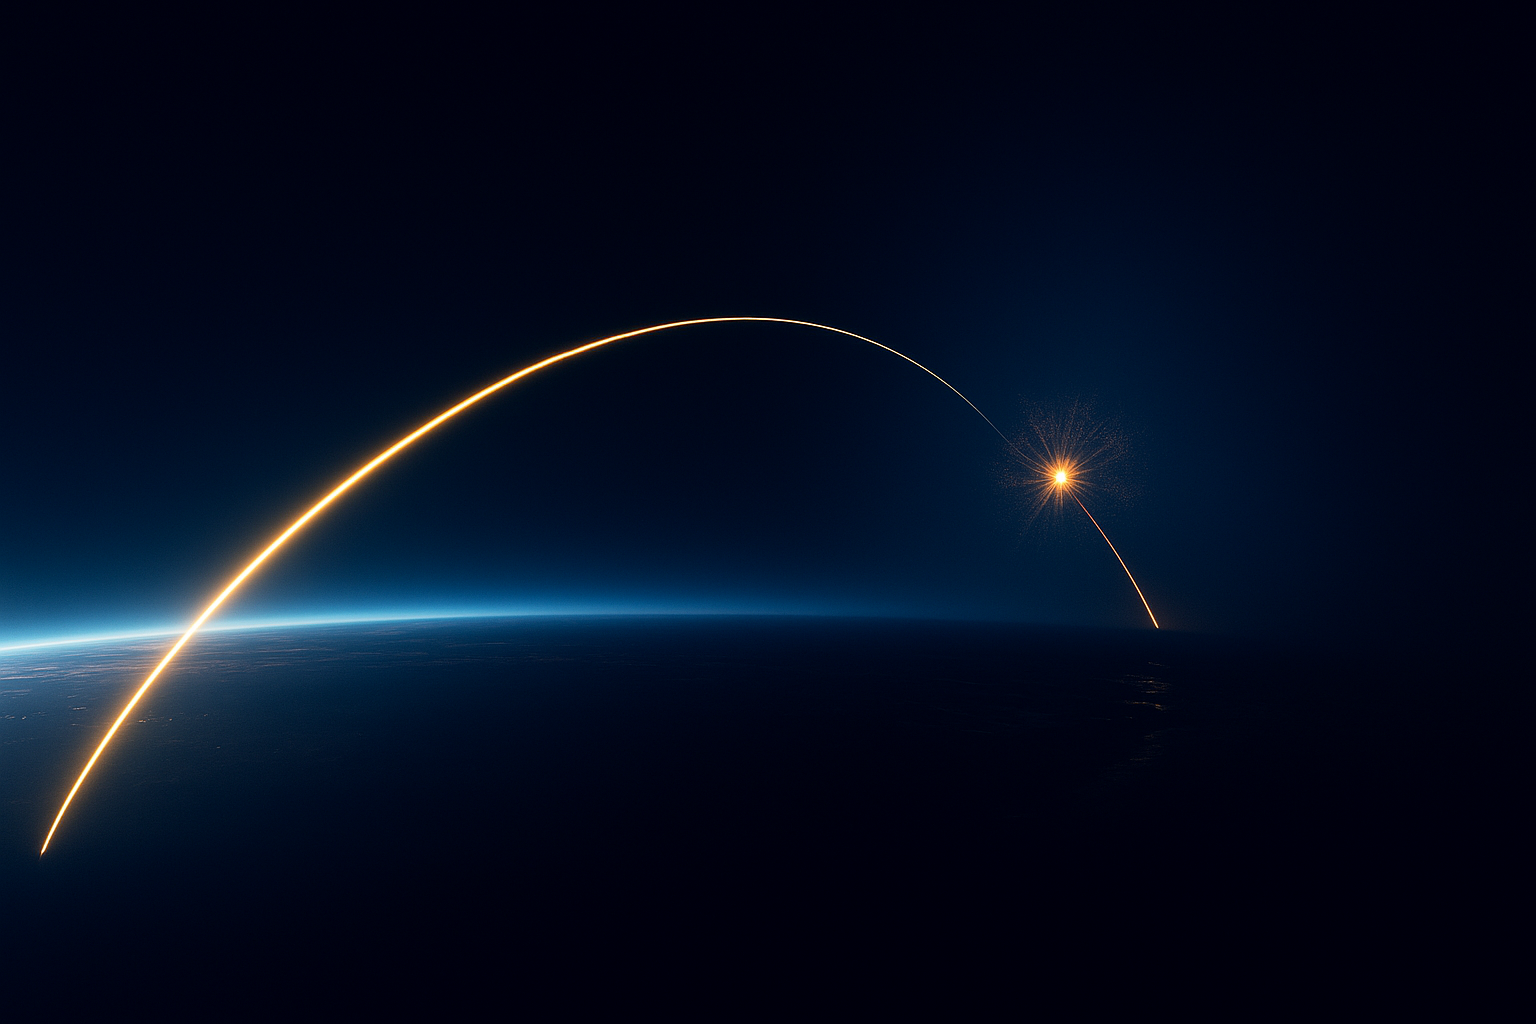
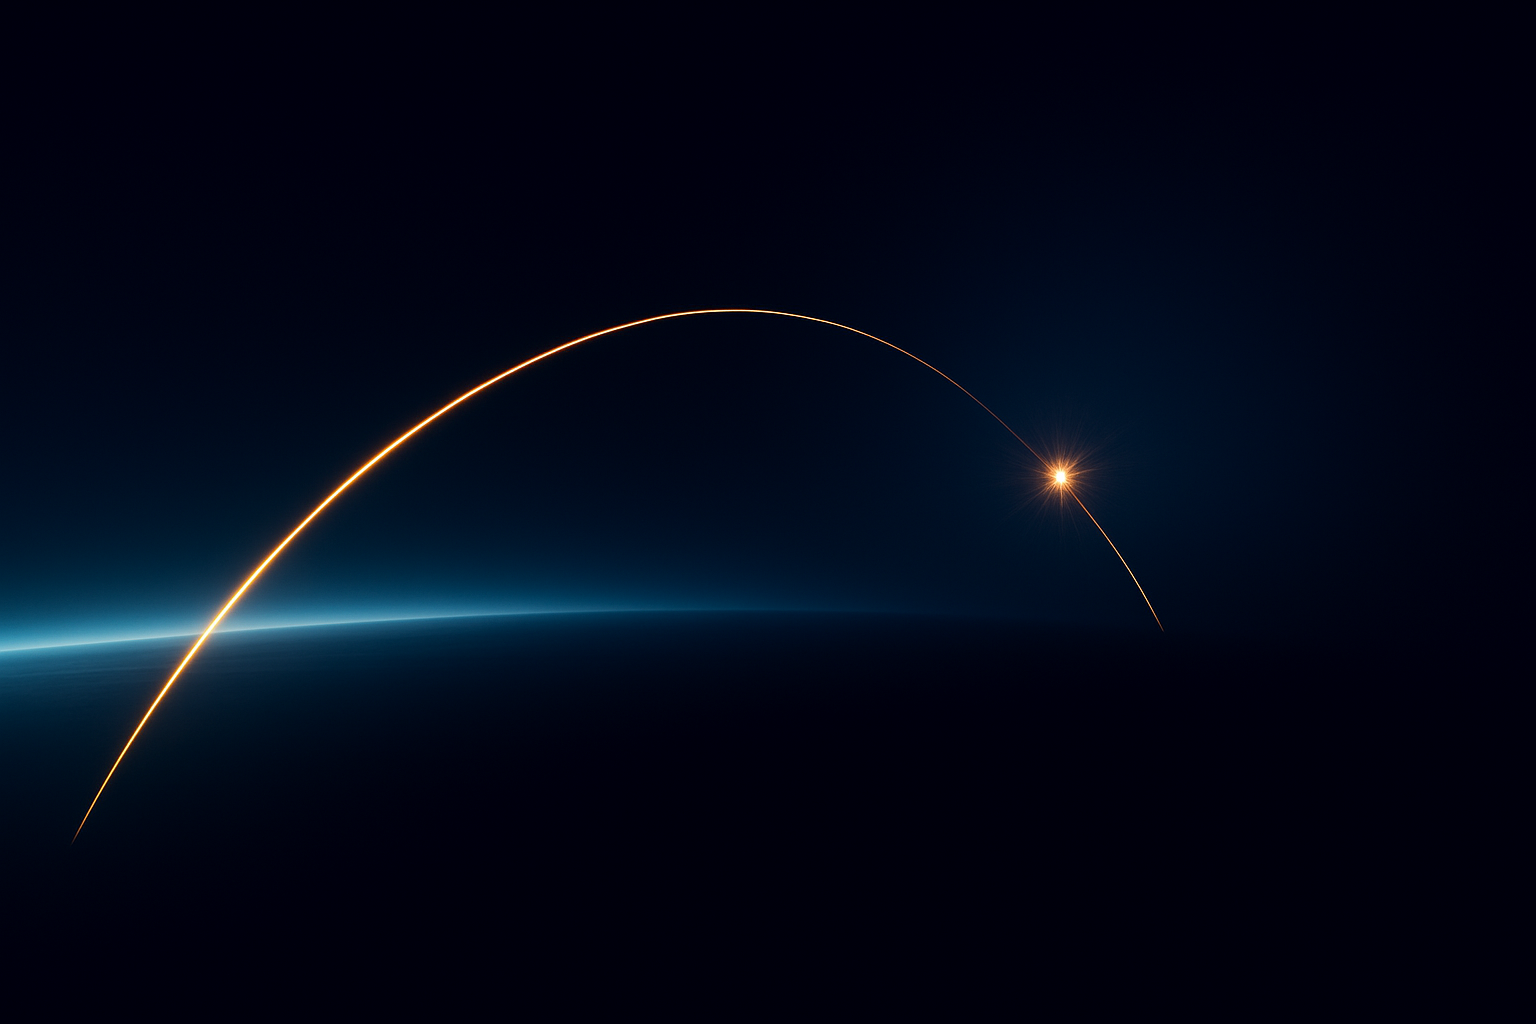
add some grident to the bg

diff --git a/components/component/hiringCard.tsx b/components/component/hiringCard.tsx
@@ -1,6 +1,6 @@
 export default function HiringCard(){
     return(
-        <div className="w-11/12 max-w-[1250px] flex flex-col justify-center items-center gap-2 md:gap-6 py-6 md:py-16 bg-[linear-gradient(135deg,#3883BC_0%,#001B2F_100%)] rounded-2xl mt-32 mb-16">
+        <div className="w-11/12 max-w-[1250px] flex flex-col justify-center items-center gap-2 md:gap-6 py-6 md:py-16 bg-[linear-gradient(135deg,#3883BC_0%,#001B2F_100%)] rounded-2xl mt-16 mb-16 hover:scale-99">
             <div className="text-black text-sm md:text-lg font-medium">Interested in Working on the Future of <div>Space Defense and National Security!</div></div>
             <div className="rubik text-xl md:text-3xl font-semibold">We’re Hiring!</div>
             <a href="/career#open-role" className="bg-black px-6 py-2 rounded-full mt-6 text-sm md:text-base">See open roles</a>

diff --git a/components/component/homeLanding.tsx b/components/component/homeLanding.tsx
@@ -13,5 +13,7 @@ export default function HomeLanding(){
             </div>
         </div>
         <div className="w-10/12 md:w-[700px] absolute bottom-32 text-center md:text-sm text-xs pt-16">Wardstone is a space defense-tech company developing next-generation capabilities to protect the United States and its allies from missiles and other space-based threats. We design, build, and deploy satellites equipped with space-based interceptors to kinetically counter hypersonic and ballistic missiles.</div>
+        <div className={`absolute bg-sky-400 blur-3xl opacity-20 h-[300px] w-[300px] md:block hidden rounded-full z-10 -left-[150px] -bottom-[150px]`}></div>
+        <div className={`absolute bg-sky-400 blur-3xl opacity-20 h-[300px] w-[300px] md:block hidden rounded-full z-10 -right-[150px] -bottom-[150px]`}></div>
     </div>)
 }

diff --git a/app/page.tsx b/app/page.tsx
@@ -5,11 +5,12 @@ import HomeLanding from "@/components/component/homeLanding";
 import Navbar from "@/components/component/navbar";
 
 export default function Home(){
-    return(<div className="flex flex-col items-center justify-start min-h-screen min-w-full">
+    return(<div className="relative overflow-hidden flex flex-col items-center justify-start min-h-screen min-w-full">
         <Navbar />
         <HomeLanding />
         <CompanyOverview />
         <HiringCard />
         <Footer />
+        <div className={`absolute bg-blue-400 blur-3xl opacity-30 md:h-[400px] md:w-[400px] h-[200px] w-[200px] rounded-full -z-10 md:-left-[200px] md:-bottom-[100px] -left-[100px] -bottom-[50px]`}></div>
     </div>)
 }

diff --git a/app/team/page.tsx b/app/team/page.tsx
@@ -5,11 +5,12 @@ import ContactUs from "@/components/component/contactUs"
 import TeamLanding from "@/components/component/teamLanding"
 
 export default function Team(){
-return(<div className="flex flex-col items-center justify-center min-h-screen min-w-full">
+return(<div className="relative overflow-hidden flex flex-col items-center justify-center min-h-screen min-w-full">
         <Navbar />
         <TeamLanding />
         <TeamOverview />
         <ContactUs />
         <Footer />
+        <div className={`absolute bg-blue-400 blur-3xl opacity-30 md:h-[400px] md:w-[400px] h-[200px] w-[200px] rounded-full -z-10 md:-left-[200px] md:-bottom-[100px] -left-[100px] -bottom-[50px]`}></div>
     </div>)
 }

diff --git a/app/mission/page.tsx b/app/mission/page.tsx
@@ -4,10 +4,11 @@ import MissionOverview from "@/components/component/missionOverview"
 import Navbar from "@/components/component/navbar"
 
 export default function Mission(){
-    return(<div className="flex flex-col items-center justify-start min-h-screen min-w-full">
+    return(<div className="relative overflow-hidden flex flex-col items-center justify-start min-h-screen min-w-full">
         <Navbar />
         <MissionLanding />
         <MissionOverview />
         <Footer />
+        <div className={`absolute bg-blue-400 blur-3xl opacity-30 md:h-[400px] md:w-[400px] h-[200px] w-[200px] rounded-full -z-10 md:-left-[200px] md:-bottom-[100px] -left-[100px] -bottom-[50px]`}></div>
     </div>)
 }

diff --git a/app/news/page.tsx b/app/news/page.tsx
@@ -4,10 +4,11 @@ import NewsLanding from "@/components/component/newsLanding"
 import NewsPost from "@/components/component/newsPost"
 
 export default function News(){
-return(<div className="flex flex-col items-center justify-center min-h-screen min-w-full">
+return(<div className="relative overflow-hidden flex flex-col items-center justify-center min-h-screen min-w-full">
         <Navbar />
         <NewsLanding />
         <NewsPost />
         <Footer />
+        <div className={`absolute bg-blue-400 blur-3xl opacity-30 md:h-[400px] md:w-[400px] h-[200px] w-[200px] rounded-full -z-10 md:-left-[200px] md:-bottom-[100px] -left-[100px] -bottom-[50px]`}></div>
     </div>)
 }

diff --git a/app/career/page.tsx b/app/career/page.tsx
@@ -4,10 +4,11 @@ import JobPost from "@/components/component/jobPost"
 import Navbar from "@/components/component/navbar"
 
 export default function Career(){
-    return(<div className="flex flex-col items-center justify-center min-h-screen min-w-full">
+    return(<div className="relative overflow-hidden flex flex-col items-center justify-center min-h-screen min-w-full">
         <Navbar />
         <CareerLanding />
         <JobPost />
         <Footer />
+        <div className={`absolute bg-blue-400 blur-3xl opacity-30 md:h-[400px] md:w-[400px] h-[200px] w-[200px] rounded-full -z-10 md:-left-[200px] md:-bottom-[100px] -left-[100px] -bottom-[50px]`}></div>
     </div>)
 }

diff --git a/components/component/newsPost.tsx b/components/component/newsPost.tsx
@@ -11,9 +11,10 @@ export type newsType = {
 
 export default async function NewsPost(){
     const news : newsType[] = await prisma.news.findMany()
-    return(<div className="w-full flex flex-col justify-center items-center gap-4 my-16">
+    return(<div className="relative w-full min-h-96 flex flex-col justify-center items-center gap-4 my-16">
         {news.map((item : newsType, index : number)=>(
             <NewsCard key={index} data={item}/>
         ))}
+        <div className={`absolute bg-sky-400 blur-3xl opacity-20 h-[300px] w-[300px] rounded-full -z-10`}></div>
     </div>)
 }
